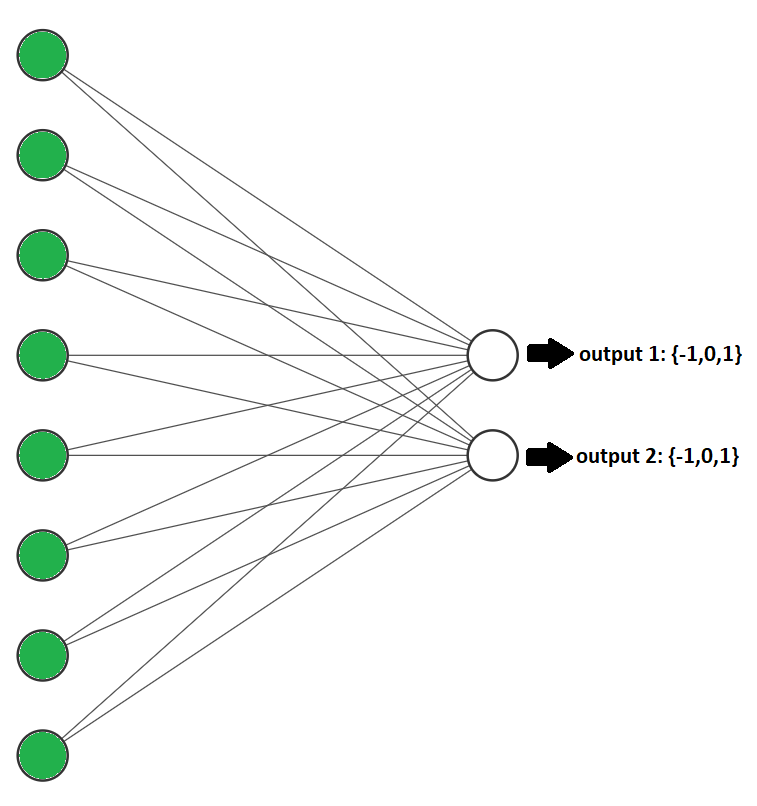
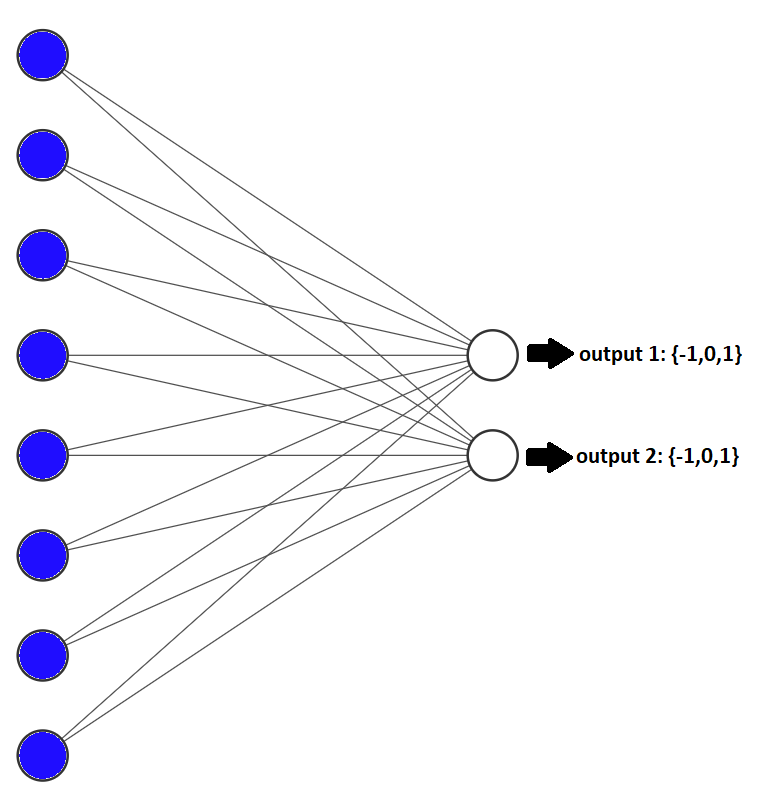
project-1.md

diff --git a/projects/project-1.md b/projects/project-1.md
@@ -15,9 +15,9 @@ summary: Little red squares learn to avoid "meteors".
 ---
 
 <h1>Problem Description</h1>
-The goal of this project was to design an environment where little red squares (envisioned as spaceships in space) learn to avoid little grey squared (envisioned as meteors). Below is a demonstration of the best individual after 20 generations of training:
+The goal of this project was to design an environment where little red squares (envisioned as spaceships in space) learn to avoid little grey squares (envisioned as meteors). Below is a demonstration of the best individual after 20 generations of training:
 
-<video class="center" width="330" height="395" controls>
+<video width="330" height="395" controls>
     <source src="../images/bestof_gen20_14s.mp4" type="video/mp4">
   Your browser does not support the video tag.
 </video>
@@ -85,14 +85,20 @@ The red squares die if they are hit by one of the grey squares. However, the red
 
 <img class="ui large centered rounded image" src="../images/spaceship_img.png">
 
-If a grey square overlaps with one of the green points, the red square will know that and will be able to decide where to move based on that. The red square will also know if one of the green points is outside the bounds of the map. To be able to make decisions the red square is equipped with a neural network that takes the state of the green points as inputs and outputs a decision:
+If a grey square overlaps with one of the blue points, the red square will know that and will be able to decide where to move based on that. The red square will also know if one of the blue points is outside the bounds of the map. To be able to make decisions the red square is equipped with a neural network that takes the state of the blue points as inputs and outputs a decision:
 
 <img class="ui medium centered rounded image" src="../images/neural_network.png">
 
-The outputs can either be -1, 0 or 1. The numbers correspond to whether to decrease, leave unchanged or increase a coordinate. Output 1 controls the x-coordinate and output 2 the y-coordinate. If for example both outputs are ones, then the red square will move north east.
+The outputs can either be -1, 0 or 1. The numbers correspond to whether to decrease, leave unchanged or increase a coordinate. Output 1 controls the x-coordinate and output 2 the y-coordinate. If for example both outputs are ones, then the red square will move towards north east.
 The red squares are rewarded based on how long they survive. When all the red squares die, the current generation ends and the squares that survived the longest are chosen as parents for the next generation. The weights of the parents’ neural networks are combined to produce new networks for the next generation.
 
 Over many generations the red squares evolve through the process of artificial natural selection to eventually avoid the grey squares. In the end they become much better than a human at achieving the given task.
+
+With a small tweak to the reward function, the red squares can learn to solve a number of other problems as well:
+
+Chasing the grey squares (can be envisioned as food in this scenario)
+
+Completing a track
 
 Source: <a href="https://github.com/alexeygorskiy/meteor_shower"><i class="large github icon"></i>alexeygorskiy/meteor_shower</a>
 
